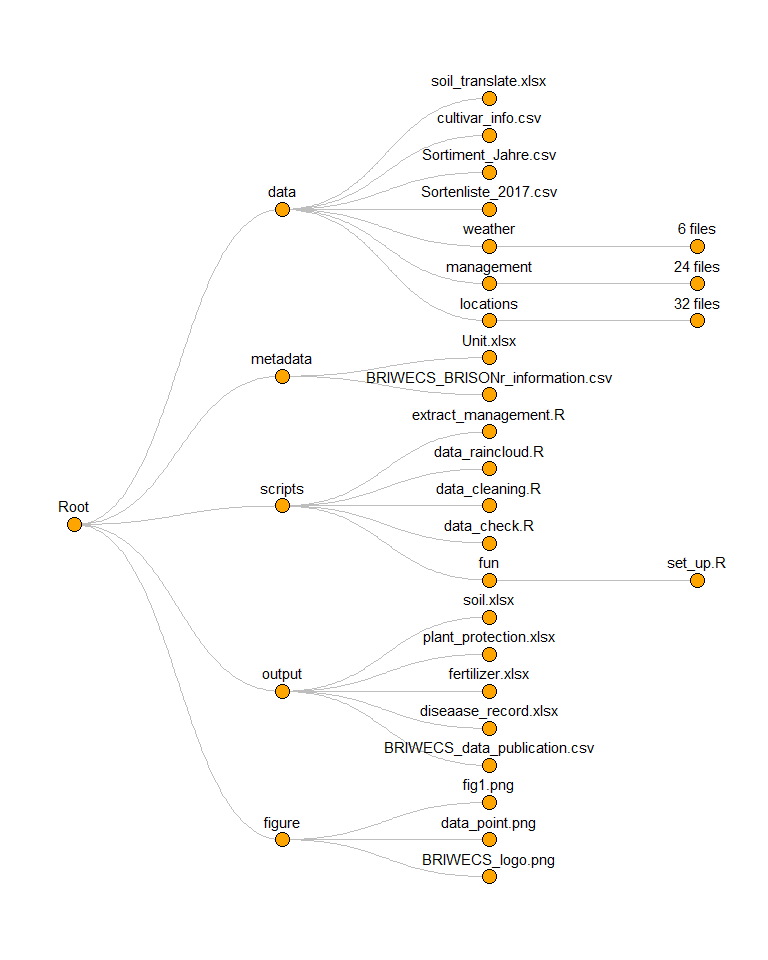
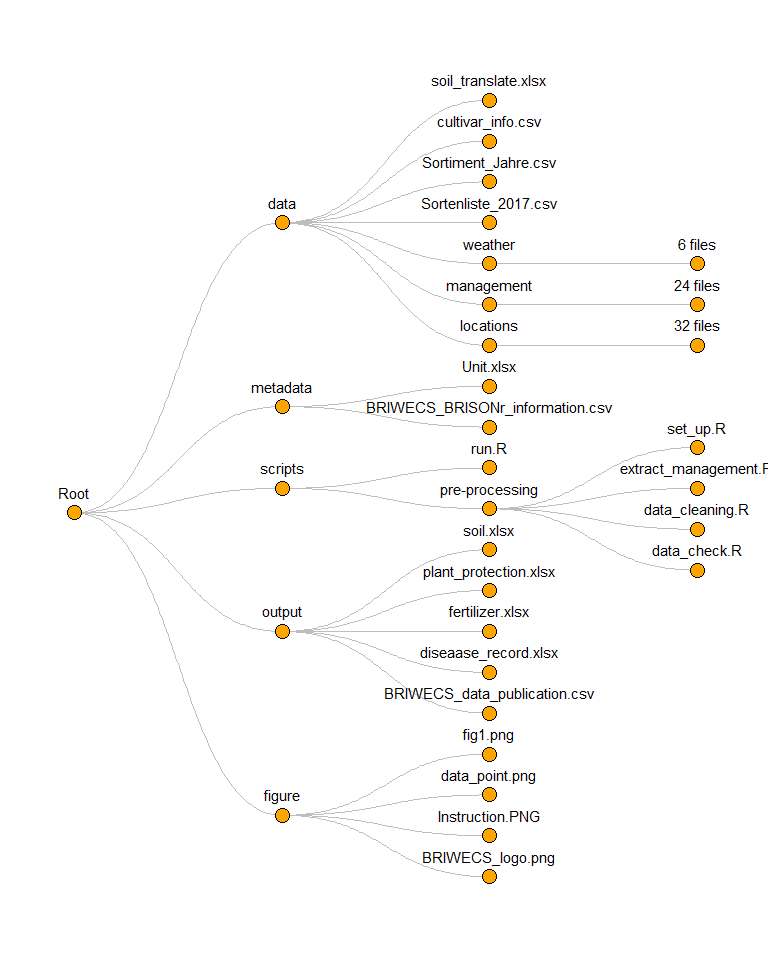
update readme with instruction

diff --git a/README.md b/README.md
@@ -8,12 +8,26 @@
 [![Website -
 pkgdown](https://img.shields.io/badge/data-overview-blue)](https://tillrose.github.io/BRIWECS_Data_Publication/data_overview.html)
 [![Project-website](https://img.shields.io/badge/Project-website-darkgreen)](https://www.igps.uni-hannover.de/de/forschung/forschungsprojekte/detailansicht/projects/forschungsverbund-briwecs)
+
 <!-- [![License: GPL-3](https://img.shields.io/badge/License-GPL3-orange)](https://www.r-project.org/Licenses/) -->
 
 <img
 src="https://github.com/tillrose/BRIWECS_Data_Publication/blob/main/figure/BRIWECS_logo.png"
 data-fig-align="right" />
+
+## insturctution
+
+1.  open `BRIWECS_Data_Publication.RProject`
+2.  open `scripts/run.R`
+3.  run all `Ctrl + Alt + R` <img
+    src="https://github.com/tillrose/BRIWECS_Data_Publication/blob/main/figure/Instruction.PNG"
+    data-fig-align="center" />
+
+## directory tree
+
 ![](README_files/figure-gfm/unnamed-chunk-1-1.png)<!-- -->
+
+## unit table
 
 <table class=" lightable-classic-2" style="font-family: &quot;Arial Narrow&quot;, &quot;Source Sans Pro&quot;, sans-serif; width: auto !important; float: right; margin-left: 10px;">
 <caption>
@@ -373,6 +387,8 @@ g
 </tr>
 </tbody>
 </table>
+
+## overview picture
 
 <img
 src="https://github.com/tillrose/BRIWECS_Data_Publication/blob/main/figure/fig1.png"
